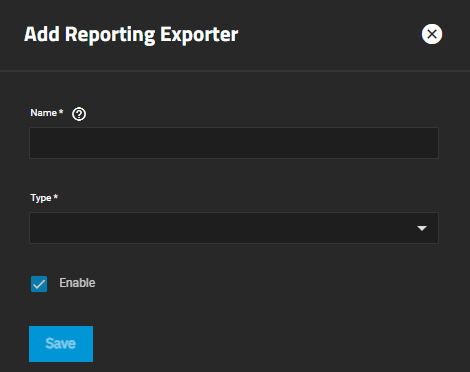
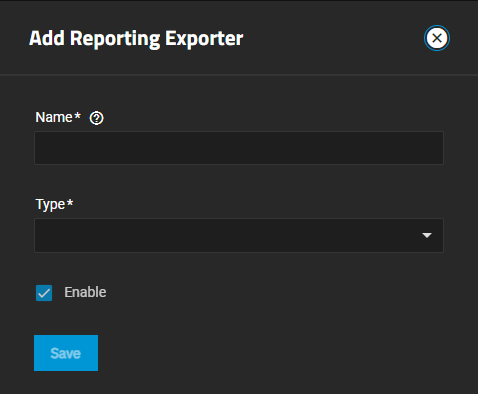
PD-817 Uodate Screenshots and Reporting Article Content
This PR updates the UI reference and tutorial articles for reporting.

Screenshots are updated to the current 24.04 screens.

The UI ref article is updated with new screens, removed the top table of screen options and moved that content down to be introductory sentences for each graph screen section.
Updated the Reporting Exporters with changes to the UI and information about the settings.

Updated the reporting tutorial content. Merged the two different sections on configuring exporters into one section, and added more information on configuring exporters. Screenshots also updated

diff --git a/content/SCALE/SCALEUIReference/ReportingScreensSCALE.md b/content/SCALE/SCALEUIReference/ReportingScreensSCALE.md
@@ -19,22 +19,11 @@ TrueNAS SCALE uses [Netdata](https://www.netdata.cloud/) to gather metrics, crea
 
 To configure third party reporting integration, such as Graphite, click **Exporters** to open the [**Reporting Exporters**](#reporting-exporters-screen) screen.
 
-## Reporting Screen Display Options
-
-{{< truetable >}}
-| Setting | Description |
-|---------|-------------|
-| **CPU** | Displays the **CPU Temperature**, **CPU Usage**, and **System Load** graphs. |
-| **Disk** | Displays graphs for each selected system disk and by report type. |
-| **Memory** | Displays both the **Physical memory utilization** and **Swap utilization** graphs. |
-| **Network** | Displays an **Interface Traffic** graph for each interface in the system. |
-| **System** | Displays both the **Processes** and **Uptime** graphs. |
-| **ZFS**| Displays the **ARC Size**, **ARC Hit Ratio**, **ARC Requests demand_data**, **ARC Requests demand_metadata**, **ARC Requests prefetch_data**, and **ARC Requests prefetch_metadata** graphs with the Arc and L2 gigabytes and hits (%), and the hits, misses and total number of requests. |
-{{< /truetable >}}
-
 ## Report Graphs
 The following sections provide examples of each report graph.
+
 ### CPU Graphs
+Displays the **CPU Temperature**, **CPU Usage**, and **System Load** graphs.
 {{< expand "Click Here for More Information" "v" >}}
 CPU graphs show the amount of time spent by the CPU in various states such as executing user code, executing system code, and being idle.
 Graphs of short-, mid-, and long-term load are shown, along with CPU temperature graphs.
@@ -44,7 +33,10 @@ Graphs of short-, mid-, and long-term load are shown, along with CPU temperature
 {{< trueimage src="/images/SCALE/Reporting/CPUReportingSystemLoad.png" alt="CPU Reporting System Load" id="CPU Reporting System Load" >}}
 
 {{< /expand >}}
+
 ### Disk Graphs
+Displays graphs for each selected system disk and by report type.
+
 {{< expand "Click Here for More Information" "v" >}}
 Disk graphs shows read and write statistics on I/O, percent busy, latency, operations per second, pending I/O requests, and disk temperature.
 Use the **Select Disks** dropdown list to select the disks and the **Select Reports** dropdown to select the report types to display.
@@ -53,8 +45,7 @@ Use the **Select Disks** dropdown list to select the disks and the **Select Repo
 
 {{< trueimage src="/images/SCALE/Reporting/DiskReportingTemperature.png" alt="Disks Reporting Temperature" id="Disks Reporting Temperature" >}}
 
-### Disk Report Options
-
+#### Disk Report Setting Options
 {{< truetable >}}
 | Setting | Description |
 |---------|-------------|
@@ -73,21 +64,28 @@ Large petabyte systems may report storage numbers inaccurately. Storage configur
 For example, a system with 18,446,744,073,709,551,615 bytes reports the number as 18,446,744,073,709,552,000 bytes.
 {{< /hint >}}
 {{< /expand >}}
+
 ### Memory Graphs
+Displays both the **Physical memory utilization** and **Swap utilization** graphs.
+
 {{< expand "Click Here for More Information" "v" >}}
 Memory graphs display memory usage and swap graphs display the amount of free and used swap space.
 
 {{< trueimage src="/images/SCALE/Reporting/MemoryReportingPhysSwap.png" alt="Memory Reporting" id="Memory Reporting" >}}
 
 {{< /expand >}}
+
 ### Network Graphs
+Displays an **Interface Traffic** graph for each interface in the system.
 {{< expand "Click Here for More Information" "v" >}}
 Network graph report received and transmitted traffic in megabytes per second for each configured interface.
 
 {{< trueimage src="/images/SCALE/Reporting/NetworkReportingIntTraffic.png" alt="Network Reporting" id="Network Reporting" >}}
 
 {{< /expand >}}
+
 ### System Graphs
+Displays both the **Processes** and **Uptime** graphs.
 {{< expand "Click Here for More Information" "v" >}}
 System graphs display the number of processes grouped by state, sleeping, running, stopped, zombies and blocked, and system uptime.
 
@@ -96,6 +94,8 @@ System graphs display the number of processes grouped by state, sleeping, runnin
 {{< /expand >}}
 
 ### ZFS Graphs
+Displays the **ARC Size**, **ARC Hit Ratio**, **ARC Requests demand_data**, **ARC Requests demand_metadata**, **ARC Requests prefetch_data**, and **ARC Requests prefetch_metadata** graphs with the Arc and L2 gigabytes and hits (%), and the hits, misses and total number of requests.
+
 {{< expand "Click Here for More Information" "v" >}}
 ZFS graphs show compressed physical ARC size, hit ratio, demand data, demand metadata, and prefetch data and metadata.
 
@@ -105,17 +105,17 @@ ZFS graphs show compressed physical ARC size, hit ratio, demand data, demand met
 {{< /expand >}}
 
 ## Reporting Exporters Screen
-
-The **Reporting Exporters** screen displays any configured third party reporting exports on the system.
+**Exporter** on the **Reporting** screen opens the **Reporting Exporter** screen.
+The **Reporting Exporters** screen displays reporting exporters configured on the system.
 Exporting enables TrueNAS SCALE to send Netdata reporting metrics to another time-series database.
+Exporters send Netdata reporting records in the form of JSON objects to third party reporting collection cloud services or applications installed on servers.
 For more information, see the Netdata [exporting reference guide](https://learn.netdata.cloud/docs/exporting/exporting-reference).
 
 {{< trueimage src="/images/SCALE/Reporting/ReportingExportersScreen.png" alt="Reporting Exporters Screen" id="Reporting Exporters Screen" >}}
 
-Click **Add** to open the **Add Reporting Exporter** screen.
+**Add** opens the **Add Reporting Exporter** screen.
 
 ### Add Reporting Exporter
-
 Use the **Add Reporting Exporter** screen to configure third party reporting integrations.
 
 {{< trueimage src="/images/SCALE/Reporting/AddReportingExporter.png" alt="Add Reporting Exporter" id="Add Reporting Exporter" >}}
@@ -124,29 +124,27 @@ Use the **Add Reporting Exporter** screen to configure third party reporting int
 | Setting | Description |
 |---------|-------------|
 | **Name** | Enter a unique name for the exporter configuration. If configuring multiple instances, give each a distinct name. |
-| **Type** | Select the exporter type to configure. The only current supported option is **GRAPHITE**. |
-| **Enable** | Select to send reporting data to the configured exporter. Leave checkbox clear to disable the explorer without removing configuration. |
+| **Type** | Select the report object format. At present, **GRAPHITE** is the only current supported option. Selecting **GRAPHITE** displays the exporter configuration settings |
+| **Enable** | Select to enable sending reporting data to the configured exporter. Leave checkbox clear to disable the explorer without removing configuration. |
 {{< /truetable >}}
 
-Additional settings populate based on the selected **Type** option.
-
+Additional settings populate based on the selected **Type** option. See **Graphite Settings** below for more information.
 {{< expand "Graphite Settings" "v" >}}
 
-{{< trueimage src="/images/SCALE/Reporting/AddReportingExporterGraphite.png" alt="Graphite Settings" id="Graphite Settings" >}}
+{{< trueimage src="/images/SCALE/Reporting/AddReportingExporterGraphite.png" alt="Graphite Exporter Settings" id="Graphite Exporter Settings" >}}
 
 {{< truetable >}}
 | Setting | Description |
 |-----------|-------------|
 | **Destination Ip** | Required. Enter the IP address of the Graphite server. |
 | **Destination Port** | Required. Enter the port the Graphite server monitors. |
-| **Prefix** | Enter the prefix to add to all Netdata metrics sent to Graphite. Defaults to *dragonfish*.<br>Netdata exports reporting metrics to Graphite in the format *prefix*.*hostname*.*chart*.*dimension*. |
-| **Hostname** | Enter the host name to add to all metrics sent to the Graphite server. Defaults to *truenas*. |
-| **Update Every** | Enter the number of seconds for the interval to send data to the Graphite database. Defaults to *1*. |
-| **Buffer On Failures** | Enter the number of iterations (**Update Every** seconds) to buffer data, when the Graphite server is not available. Defaults to *10*. |
-| **Send Names Instead Of Ids** | Enter *true* to send Netdata chart and dimension names to Graphite or *false* to send IDs. Defaults to *true*.  |
-| **Matching Charts** | Enter one or more space separated patterns in regular expression (use * as wildcard or ! to define a negative match) to specify the charts to send to Graphite. Defaults to * (send all charts). |
+| **Prefix** | Enter the top-level of the file hierarchy for the path to use to store exported records. For example, enter the top-level folder name for the path, and use **Namespace** to enter the folder for the data records. For example, enter *dragonfish*. |
+| **namespace** | Enter the name for the folder where you store data records. Use with the **Prefix** to define the full path. You can also enter the host name to add to all data records sent to the Graphite server. Defaults to *truenas*. |
+| **Update Every** | (Optional) Enter the number of seconds for the interval to send data to the Graphite database. Defaults to *1*. |
+| **Buffer On Failures** | (Optional) Enter the number of iterations (**Update Every** seconds) to buffer data, when the Graphite server is not available. Defaults to *10*. |
+| **Send Names Instead Of Ids** | (Optional) Enter **true** to send Netdata chart and dimension names to Graphite or **false** to send IDs. Defaults to **true**.  |
+| **Matching Charts** | (Optional) Enter one or more space separated patterns in regular expression. Use the asterisk (*) as wildcard to send all charts or the exclamation mark (!) to define a negative match to specify the charts to send to Graphite. Defaults to (*). |
 {{< /truetable >}}
 
-See [Configuring Graphite Exporting]({{< relref "ConfigReportsScale.md #configuring-graphite-exporting" >}}) for more information.
-
+See [Adding a Reporting Exporting]({{< relref "ConfigReportsScale.md #adding-a-reporting-exporter" >}}) for more information.
 {{< /expand >}}

diff --git a/content/SCALE/SCALETutorials/ConfigReportsScale.md b/content/SCALE/SCALETutorials/ConfigReportsScale.md
@@ -1,6 +1,6 @@
 ---
 title: "Reporting"
-description: "Provides information on changing settings that control how TrueNAS displays report graphs, interacting with graphs, and the TrueCommand Enhancement option."
+description: "Provides information on changing settings that control how SCALE displays report graphs, how to interact with graphs, and configuring reporting exporters."
 weight: 13
 alias:
 - /scale/scaletutorials/reporting/configreportsscale/
@@ -20,7 +20,7 @@ TrueNAS uses [Netdata](https://github.com/netdata/netdata) to gather system metr
 Reporting data is saved to permit viewing and monitoring usage trends over time.
 This data is preserved across system upgrades and restarts.
 
-## TrueCommand Enhancement
+## Increating Reporting Functionality (TrueCommand)
 
 To increase TrueNAS reporting functionality connect it to our TrueCommand multi-system management software.
 
@@ -35,40 +35,63 @@ Click the <i class="fa fa-forward" aria-hidden="true" title="Forward"></i> to mo
 Click the <i class="fa fa-backward" aria-hidden="true" title="Backward"></i> to move the graph backward.
 
 ## Configuring Reporting Exporters
+You can configure TrueNAS to export Netdata information to any time-series database, reporting cloud service or application installed on a server.
+For example, Graphite, Garafana, etc., installed on a server or use their cloud service.
 
-Click **Exporters** to open the [**Reporting Exporters**]({{< relref "ReportingScreensSCALE.md #reporting-exporters-screen" >}}) screen.
-The **Reporting Exporters** screen displays any configured third party reporting exports on the system.
+Creating reporting exporters enables SCALE to send Netdata reporting metrics, formatted as a JSON object, to another reporting entity.
+
+For more information on exporting Netdata records to other servers or services, refer to the Netdata [exporting reference guide](https://learn.netdata.cloud/docs/exporting/exporting-reference).
+
+[Graphite](https://graphiteapp.org/) is a monitoring tool available as an application you can deploy on a server or use  their cloud service.
+It stores and renders time-series data based on a plaintext database.
+Netdata exports reporting metrics to Graphite in the format *prefix*.*hostname*.*chart*.*dimension*.
+For additional information, see the Netdata [Graphite exporting guide](https://learn.netdata.cloud/docs/exporting/graphite).
+
+### Adding a Reporting Exporter
+To configure a reporting exporter in SCALE, you need the:
+
+* IP address of the reporting service or server.
+  If using another TrueNAS system with a reporting application, this is the IP address of the TrueNAS running the application.
+* Port number the reporting service listens on.
+  If using another TrueNAS system with a reporting application, this is the port number the TrueNAS system listens on (port:80)
+
+For more information on reporting exporter settings, see the [Add Reporting Exporter]({{< relref "ReportingScreensSCALE.md #add-reporting-exporter" >}}) section of the Reporting Screens article.
+
+Go to **Reporting**, click on **Exporters** to open the **Reporting Exporters** screen.
+Any reporting exporters configured on the system display on the **Reporting Exporters** screen.
 
 {{< trueimage src="/images/SCALE/Reporting/ReportingExportersScreen.png" alt="Reporting Exporters Screen" id="Reporting Exporters Screen" >}}
 
-Exporting enables TrueNAS SCALE to send Netdata reporting metrics to another time-series database.
-For more information, see the Netdata [exporting reference guide](https://learn.netdata.cloud/docs/exporting/exporting-reference).
-
-Click **Add** to open the **Add Reporting Exporter** screen and configure a third party reporting integration.
+Click **Add** to open the **Add Reporting Exporter** screen to configure a third party reporting integration.
 
 {{< trueimage src="/images/SCALE/Reporting/AddReportingExporter.png" alt="Add Reporting Exporter" id="Add Reporting Exporter" >}}
 
 Enter a unique name for the exporter configuration in **Name**. If configuring multiple exporter instances, give each a distinct name.
 
-Select the target database from **Type**.
-Graphite is the only current supported option.
-Additional settings fields automatically populate to configure the selected exporter type.
+Select the report object format from **Type**. At present, only **GRAPHITE** is available.
+The screen shows the exporter configuration fields.
 
-Select **Enable** to send reporting metrics to the configured exporter instance. Leave the checkbox cleared to disable the exporter without removing configuration.
+{{< trueimage src="/images/SCALE/Reporting/AddReportingExporterGraphite.png" alt="Graphite Exporter Settings" id="Graphite Exporter Settings" >}}
 
-### Configuring Graphite Exporting
+Select **Enable** to send reporting metrics to the configured exporter instance.
+Clearing the checkmark disables the exporter without removing configuration.
 
-[Graphite](https://graphiteapp.org/) is a monitoring tool that stores and renders time-series data based on a plaintext database.
-Netdata exports reporting metrics to Graphite in the format *prefix*.*hostname*.*chart*.*dimension*.
+Enter the IP address for the data collection server or cloud service.
 
-To send reporting data to Graphite, select **GRAPHITE** in **Type**.
+Enter the port number the report collecting server, etc. listens on.
 
-{{< trueimage src="/images/SCALE/Reporting/AddReportingExporterGraphite.png" alt="Graphite Settings" id="Graphite Settings" >}}
-
-Enter the IP address of the Graphite server in **Destination Ip**.
-Enter the port number the Graphite server monitors in **Destination Port**.
+Enter the file hierarchy structure, or where in the collecting server, etc. to send the data.
+First enter the top-level in **Prefix** and then the data collection folder in the **Namespace** field.
+For example, entering *DF* in **Prefix** and *test* in **Namespace** creates two folders in Graphite with *DF* as the parent to *Test*.
 
 You can accept the defaults for all other settings, or enter configuration settings to match your use case.
 
-See "Graphite Settings" in [Add Reporting Exporter]({{< relref "ReportingScreensSCALE.md #add-reporting-exporter" >}}) for default values.
-For additional information, see the Netdata [Graphite exporting guide](https://learn.netdata.cloud/docs/exporting/graphite).
+Click **Save**. 
+
+To view the Graphite web UI, enter the *IPaddress:Port#* of the system hosting the application.
+
+{{< trueimage src="/images/SCALE/Reporting/GraphiteWebUIForReportingExporter.png" alt="Graphite Web UI" id="Graphite Web UI" >}}
+
+SCALE can now export the data records as Graphite-formatted JSON objects to the other report collection and processing application, service, or servers.
+
+SCALE also populates the exporter screen with default settings. To view these settings, click **Edit** on the row for the exporter.
